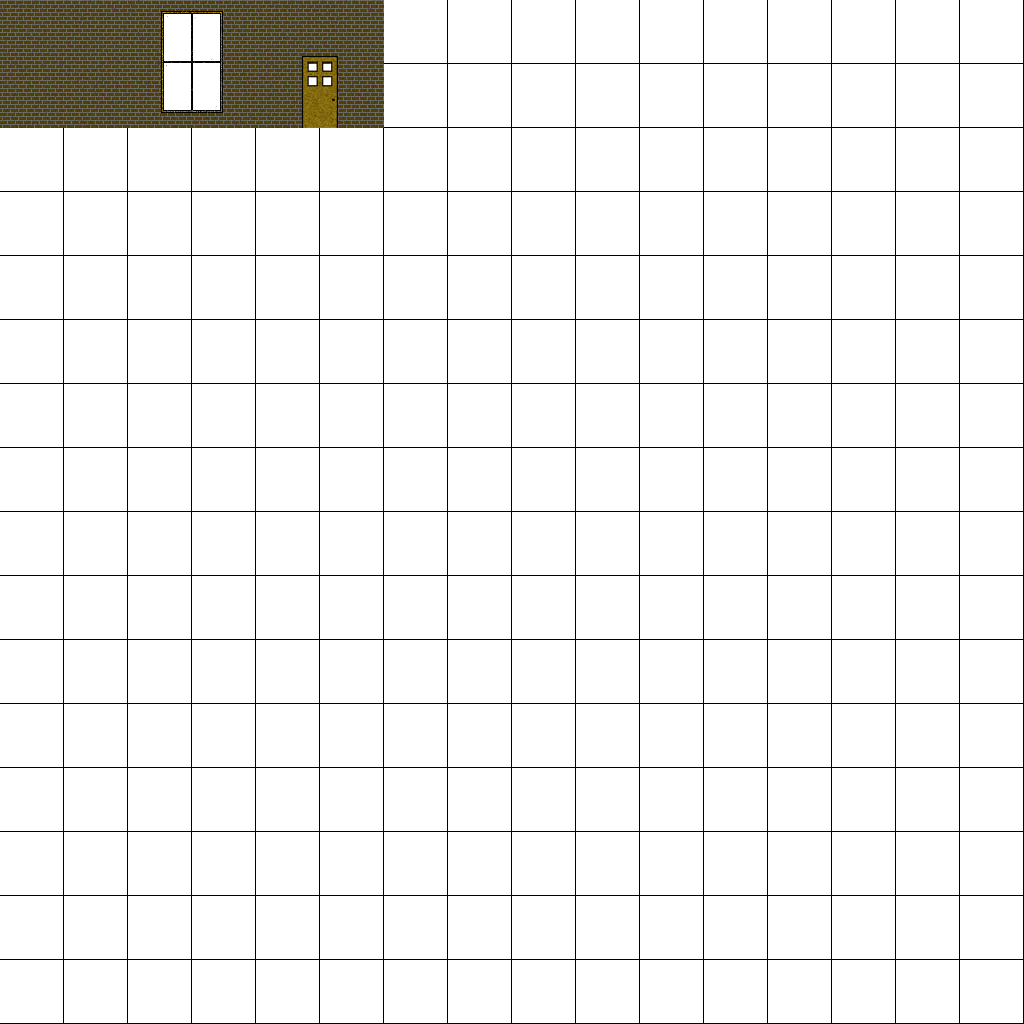
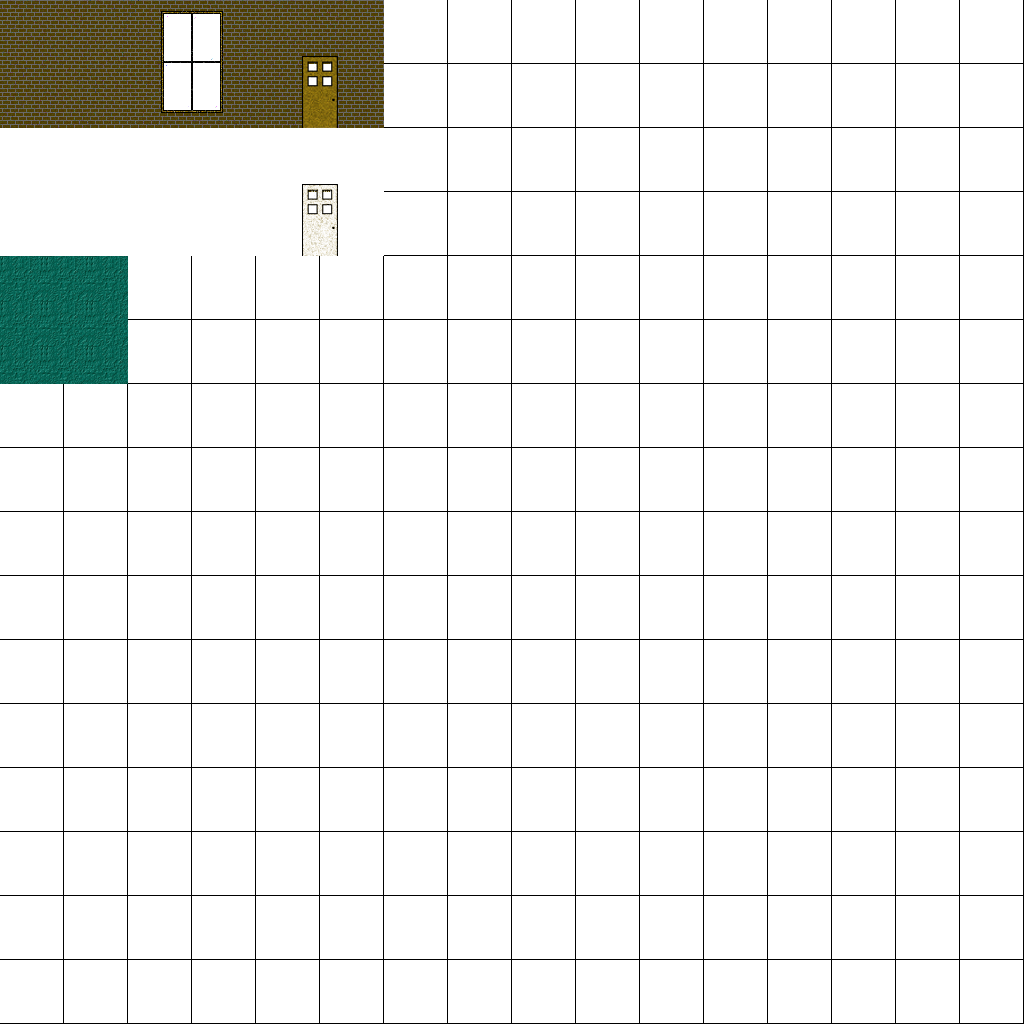
Doors can now be entered using F5; ZAG Version 0.3.4.2

Changed region(s): [[0.0, 0.25, 0.125, 0.375], [0.2812, 0.1562, 0.3438, 0.25]]

diff --git a/src/com/RoguePanda/ZAG/Building.java b/src/com/RoguePanda/ZAG/Building.java
@@ -1,9 +1,13 @@
 package com.RoguePanda.ZAG;
 
 import com.RoguePanda.Library.ImageManipulator;
+import java.awt.Color;
 import java.awt.Graphics;
+import java.awt.List;
 import java.awt.Point;
+import java.awt.Rectangle;
 import java.awt.image.BufferedImage;
+import java.util.ArrayList;
 
 /**
  * This is a building to be placed on screen.
@@ -16,21 +20,30 @@ class Building {
     Point location;
     BufferedImage insideSprite;
     BufferedImage outsideSprite;
+    BufferedImage outsideSpriteClear;
     BuildingObject[] objects;
     Block level;
+    public ArrayList<Rectangle> entrances;
+    boolean inside = false;
 
-    Building(int[][] chunks, BuildingObject[] bo, Point loc, Block lev) {
+    Building(int[][] outsidechunks, int[][] insidechunks, BuildingObject[] bo, Point loc, Block lev) {
+        entrances = new ArrayList<>();
         objects = bo;
         level = lev;
         location = loc;
-        outsideSprite = new BufferedImage(size * chunks[0].length, size * chunks.length, BufferedImage.TYPE_INT_ARGB);
+        outsideSprite = new BufferedImage(size * outsidechunks.length, size * outsidechunks[0].length, BufferedImage.TYPE_INT_ARGB);
+        outsideSpriteClear = new BufferedImage(size * outsidechunks.length, size * outsidechunks[0].length, BufferedImage.TYPE_INT_ARGB);
+        insideSprite = new BufferedImage(size * insidechunks.length, size * insidechunks[0].length, BufferedImage.TYPE_INT_ARGB);
         Graphics osg = outsideSprite.getGraphics();
-        for (int x = 0; x < chunks[0].length; x++) {
-            for (int y = 0; y < chunks.length; y++) {
+        for (int x = 0; x < outsidechunks.length; x++) {
+            for (int y = 0; y < outsidechunks[0].length; y++) {
+                if (outsidechunks[x][y] == 2) {
+                    entrances.add(new Rectangle(size * x + loc.x, size * y + loc.y + (size ), size, size));
+                }
                 osg.drawImage(ImageManipulator.scaleImage(
                         ImageManipulator.selectFromSheet(
                         level.buildingsheet,
-                        chunks[x][y],
+                        outsidechunks[x][y],
                         128,
                         128),
                         size,
@@ -40,6 +53,40 @@ class Building {
                         null);
             }
         }
-        location.y = 590 - size*chunks.length-(size-28);
+        Graphics osgc = outsideSpriteClear.getGraphics();
+        for (int x = 0; x < outsidechunks.length; x++) {
+            for (int y = 0; y < outsidechunks[0].length; y++) {
+                osgc.drawImage(ImageManipulator.scaleImage(
+                        ImageManipulator.selectFromSheet(
+                        level.buildingsheet,
+                        outsidechunks[x][y] + 8,
+                        128,
+                        128),
+                        size,
+                        size),
+                        size * x,
+                        size * y,
+                        null);
+            }
+        }
+        Graphics isg = insideSprite.getGraphics();
+        for (int x = 0; x < insidechunks.length; x++) {
+            for (int y = 0; y < insidechunks[0].length; y++) {
+                isg.drawImage(ImageManipulator.scaleImage(
+                        ImageManipulator.selectFromSheet(
+                        level.buildingsheet,
+                        insidechunks[x][y],
+                        128,
+                        128),
+                        size,
+                        size),
+                        size * x,
+                        size * y,
+                        null);
+            }
+        }
+        location.y = 590 - size * outsidechunks[0].length - (size - 28);
+        osg.setColor(Color.black);
+        osg.drawRect(0, 0, outsideSprite.getWidth(), outsideSprite.getHeight());
     }
 }

diff --git a/src/com/RoguePanda/ZAG/GameCanvas.java b/src/com/RoguePanda/ZAG/GameCanvas.java
@@ -7,6 +7,7 @@ package com.RoguePanda.ZAG;
 import java.awt.Color;
 import java.awt.Graphics;
 import java.awt.Point;
+import java.awt.Rectangle;
 import java.awt.event.MouseEvent;
 import java.awt.event.MouseListener;
 import java.awt.geom.Rectangle2D;
@@ -33,15 +34,22 @@ public class GameCanvas extends JPanel {
         bo = new BuildingObject(0, new Point(400, 320));
         BuildingObject[] bos = new BuildingObject[1];
         bos[0] = bo;
-        int[][] chunks = new int[4][4];
-        for (int x = 0; x < 4; x++) {
-            for (int y = 0; y < 4; y++) {
+        int[][] chunks = new int[3][3];
+        for (int x = 0; x < 3; x++) {
+            for (int y = 0; y < 3; y++) {
                 chunks[x][y] = 0;
             }
         }
+        int[][] chunks2 = new int[3][3];
+        for (int x = 0; x < 3; x++) {
+            for (int y = 0; y < 3; y++) {
+                chunks2[x][y] = 16;
+            }
+        }
+        chunks[0][1] = 1;
         chunks[2][1] = 1;
-        chunks[1][3] = 2;
-        b = new Building(chunks, bos, new Point(500, 0), cgui.currentGame.currentLevel);
+        chunks[1][2] = 2;
+        b = new Building(chunks, chunks2, bos, new Point(500, 0), cgui.currentGame.currentLevel);
         cgui.currentGame.currentLevel.buildings.add(b);
         this.setSize(1600, 600);
         this.setBounds(0, 0, 1600, 600);
@@ -79,7 +87,15 @@ public class GameCanvas extends JPanel {
             g.drawImage(cgui.test, 0, 100, null);
             try {
                 for (Building b : cgui.currentGame.currentLevel.buildings) {
-                    g.drawImage(b.outsideSprite, b.location.x, b.location.y, null);
+                    g.drawImage(b.insideSprite, b.location.x, b.location.y, null);
+                    if (!b.inside) {
+                        g.drawImage(b.outsideSprite, b.location.x, b.location.y, null);
+                    } else {
+                        g.drawImage(b.outsideSpriteClear, b.location.x, b.location.y, null);
+                    }
+                    for (Rectangle r : b.entrances) {
+                        g.drawRect(r.x, r.y, r.width, r.height);
+                    }
                 }
             } catch (Exception be) {
             }
@@ -111,11 +127,6 @@ public class GameCanvas extends JPanel {
                         }
                     }
                 } catch (Exception bu) {
-                }
-                try {
-                    g.drawRect(b.location.x, b.location.y, b.outsideSprite.getWidth(), b.outsideSprite.getHeight());
-                } catch (Exception e) {
-                    e.printStackTrace();
                 }
                 g.setColor(Color.black);
                 g.fillRect(0, 400, 100, 100);

diff --git a/src/com/RoguePanda/ZAG/CardGUI.java b/src/com/RoguePanda/ZAG/CardGUI.java
@@ -14,6 +14,7 @@ import java.awt.GridBagConstraints;
 import java.awt.GridBagLayout;
 import java.awt.Image;
 import java.awt.Point;
+import java.awt.Rectangle;
 import java.awt.event.KeyEvent;
 import java.awt.event.KeyListener;
 import java.awt.event.MouseEvent;
@@ -32,7 +33,6 @@ import javax.swing.JFrame;
 import javax.swing.JLabel;
 import javax.swing.JPanel;
 import javax.swing.JProgressBar;
-import javax.swing.JScrollBar;
 import javax.swing.JScrollPane;
 import javax.swing.ScrollPaneConstants;
 import org.netbeans.lib.awtextra.AbsoluteConstraints;
@@ -46,7 +46,7 @@ class CardGUI extends JFrame implements Runnable {
 
     private static final long serialVersionUID = 1L;
     //<editor-fold defaultstate="collapsed" desc="Create Variables">
-    int leftKey, rightKey, jumpKey, dropKey;
+    int leftKey, rightKey, jumpKey, dropKey, enterKey;
     BufferedImage bim;
     Graphics blank;
     ImageIcon bgicon, bgimage, logo;
@@ -114,6 +114,7 @@ class CardGUI extends JFrame implements Runnable {
         rightKey = 'd';
         jumpKey = ' ';
         dropKey = 'q';
+        enterKey = 'w';
         frame = new JPanel();
         frame.setLayout(new CardLayout());
         menuDisplay = new JPanel();
@@ -462,6 +463,20 @@ class CardGUI extends JFrame implements Runnable {
             @Override
             public void keyPressed(KeyEvent ke) {
                 pressed.add((int) ke.getKeyChar());
+                if (ke.getKeyCode() == 116) {
+                    for (Building b : currentGame.currentLevel.buildings) {
+                        for (Rectangle r : b.entrances) {
+                            if (currentGame.player.boundingBox.intersects(r)) {
+                                if (b.inside) {
+                                    b.inside = false;
+                                } else {
+                                    b.inside = true;
+                                }
+                                System.out.println("Building");
+                            }
+                        }
+                    }
+                }
                 if (ke.getKeyCode() == 113) {
                     if (debug) {
                         debug = false;
